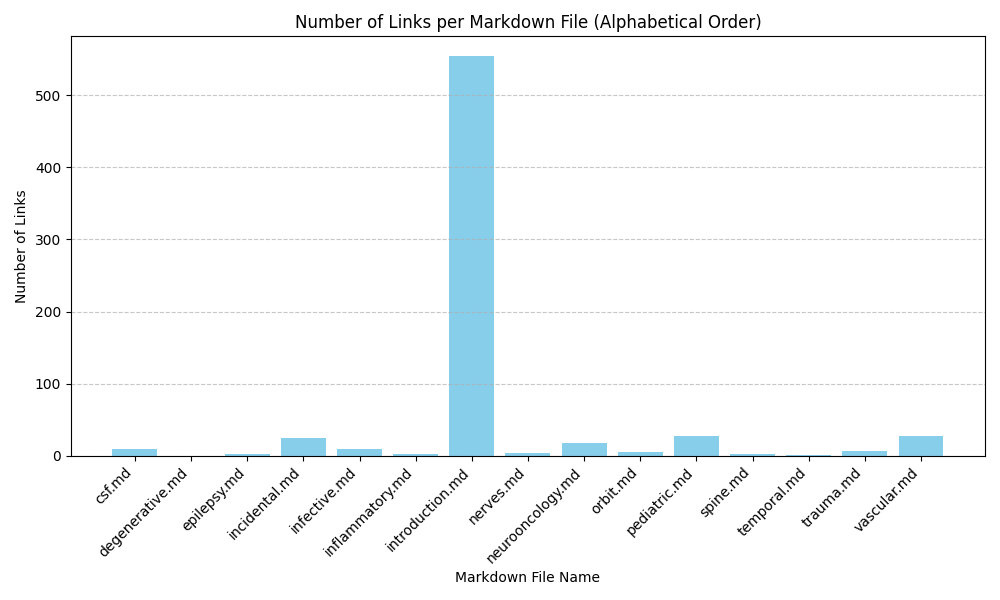
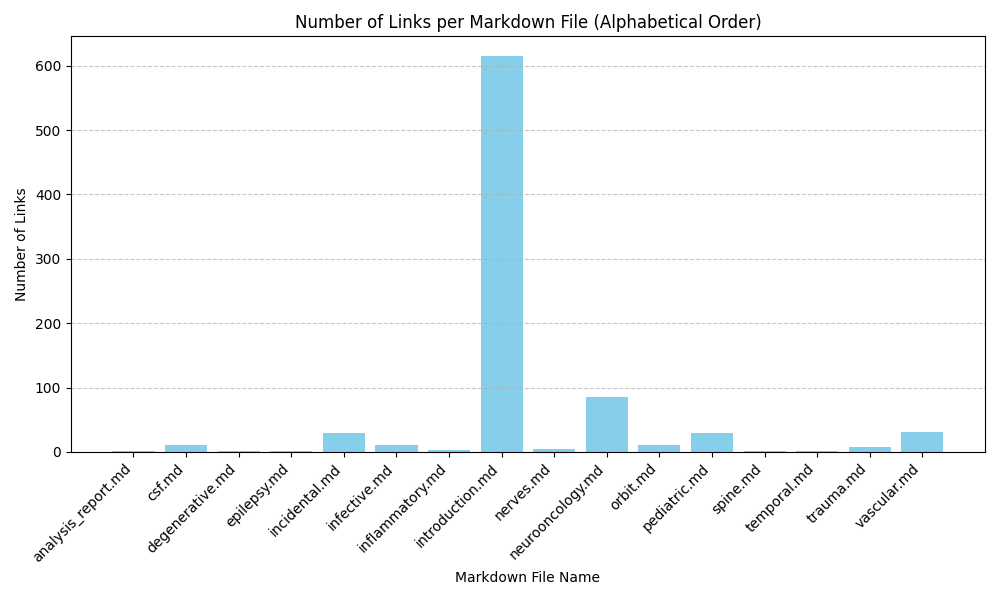
vascular and statistics

diff --git a/pages/analysis_report.md b/pages/analysis_report.md
@@ -1,6 +1,6 @@
 # Markdown Files Analysis Report
 
-Report generated on 2025-06-26 17:10:29.
+Report generated on 2025-06-27 14:36:41.
 
 ---
 ## Summary of Links per File
@@ -12,9 +12,9 @@ Below is a bar plot visualizing the number of links found in each Markdown file,
 ---
 ## Detailed File Analysis
 
-### File: `csf.md`
+### File: `analysis_report.md`
 
-- **Number of Links**: 9
+- **Number of Links**: 1
 
 - **Headings (Chapters) by Level**:
 
@@ -22,15 +22,33 @@ Below is a bar plot visualizing the number of links found in each Markdown file,
 
   - `##` (Level 2): 2 chapters
 
+  - `###` (Level 3): 15 chapters
 
 
-### File: `degenerative.md`
 
-- **Number of Links**: 0
+### File: `csf.md`
+
+- **Number of Links**: 10
 
 - **Headings (Chapters) by Level**:
 
   - `#` (Level 1): 1 chapters
+
+  - `##` (Level 2): 3 chapters
+
+
+
+### File: `degenerative.md`
+
+- **Number of Links**: 1
+
+- **Headings (Chapters) by Level**:
+
+  - `#` (Level 1): 1 chapters
+
+  - `##` (Level 2): 1 chapters
+
+  - `###` (Level 3): 1 chapters
 
 
 
@@ -48,7 +66,7 @@ Below is a bar plot visualizing the number of links found in each Markdown file,
 
 ### File: `incidental.md`
 
-- **Number of Links**: 24
+- **Number of Links**: 30
 
 - **Headings (Chapters) by Level**:
 
@@ -56,19 +74,19 @@ Below is a bar plot visualizing the number of links found in each Markdown file,
 
   - `##` (Level 2): 3 chapters
 
-  - `###` (Level 3): 4 chapters
+  - `###` (Level 3): 5 chapters
 
 
 
 ### File: `infective.md`
 
-- **Number of Links**: 9
+- **Number of Links**: 10
 
 - **Headings (Chapters) by Level**:
 
   - `#` (Level 1): 1 chapters
 
-  - `##` (Level 2): 3 chapters
+  - `##` (Level 2): 4 chapters
 
 
 
@@ -86,15 +104,15 @@ Below is a bar plot visualizing the number of links found in each Markdown file,
 
 ### File: `introduction.md`
 
-- **Number of Links**: 554
+- **Number of Links**: 615
 
 - **Headings (Chapters) by Level**:
 
   - `#` (Level 1): 1 chapters
 
-  - `##` (Level 2): 10 chapters
+  - `##` (Level 2): 11 chapters
 
-  - `###` (Level 3): 21 chapters
+  - `###` (Level 3): 26 chapters
 
   - `####` (Level 4): 13 chapters
 
@@ -116,13 +134,13 @@ Below is a bar plot visualizing the number of links found in each Markdown file,
 
 ### File: `neurooncology.md`
 
-- **Number of Links**: 18
+- **Number of Links**: 86
 
 - **Headings (Chapters) by Level**:
 
   - `#` (Level 1): 1 chapters
 
-  - `##` (Level 2): 9 chapters
+  - `##` (Level 2): 18 chapters
 
   - `###` (Level 3): 1 chapters
 
@@ -130,19 +148,19 @@ Below is a bar plot visualizing the number of links found in each Markdown file,
 
 ### File: `orbit.md`
 
-- **Number of Links**: 5
+- **Number of Links**: 10
 
 - **Headings (Chapters) by Level**:
 
   - `#` (Level 1): 1 chapters
 
-  - `##` (Level 2): 2 chapters
+  - `##` (Level 2): 4 chapters
 
 
 
 ### File: `pediatric.md`
 
-- **Number of Links**: 28
+- **Number of Links**: 30
 
 - **Headings (Chapters) by Level**:
 
@@ -190,12 +208,12 @@ Below is a bar plot visualizing the number of links found in each Markdown file,
 
 ### File: `vascular.md`
 
-- **Number of Links**: 27
+- **Number of Links**: 31
 
 - **Headings (Chapters) by Level**:
 
   - `#` (Level 1): 1 chapters
 
-  - `##` (Level 2): 2 chapters
+  - `##` (Level 2): 4 chapters
 
 

diff --git a/pages/vascular.md b/pages/vascular.md
@@ -28,12 +28,15 @@ outline: deep
 [Suboccipital Rind Sign](https://radiopaedia.org/articles/suboccipital-rind-sign)  
 [Stasis Filling](https://radiopaedia.org/articles/stasis-filling)  
 [Embolic Shower](https://radiopaedia.org/articles/embolic-shower-1)  
-[Central Retinal Artery Occlusion](https://radiopaedia.org/articles/central-retinal-artery-occlusion-1)  
-[Orbital Infarction Syndrome](https://radiopaedia.org/articles/orbital-infarction-syndrome)  
+[Heidelberg Bleeding Classification](https://radiopaedia.org/articles/heidelberg-bleeding-classification-1)  
 
 ## Anoxyc damage and cerebral death
 
 [Anoxic Brain Injury](https://radiopaedia.org/articles/anoxic-brain-injury)  
+
+## Haemorrhagic stroke
+
+[Haemorrhagic Stroke Summary](https://radiopaedia.org/articles/haemorrhagic-stroke-summary)  
 
 ## Cerebral aneurysm
 
@@ -42,3 +45,4 @@ outline: deep
 [Ruptured Saccular Aneurysm](https://radiopaedia.org/articles/ruptured-saccular-aneurysm)  
 [Endosaccular Flow Disruption Devices](https://radiopaedia.org/articles/endosaccular-flow-disruption-devices)  
 [Non Ischaemic Cerebral Enhancing Nice Lesions](https://radiopaedia.org/articles/non-ischaemic-cerebral-enhancing-nice-lesions)  
+[Cerebral Varix](https://radiopaedia.org/articles/cerebral-varix)  
